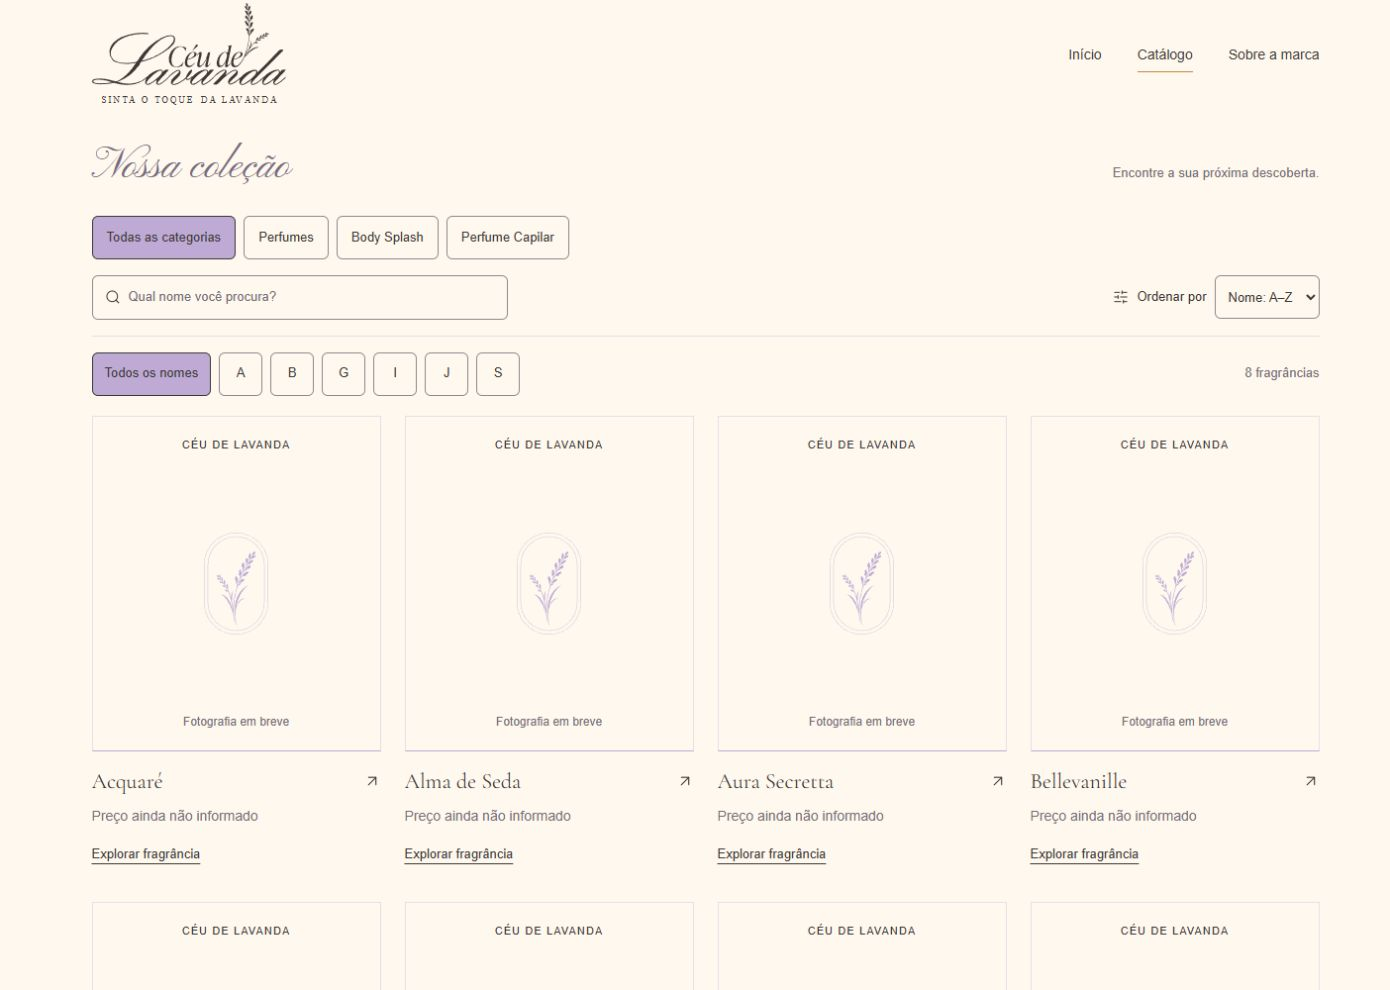
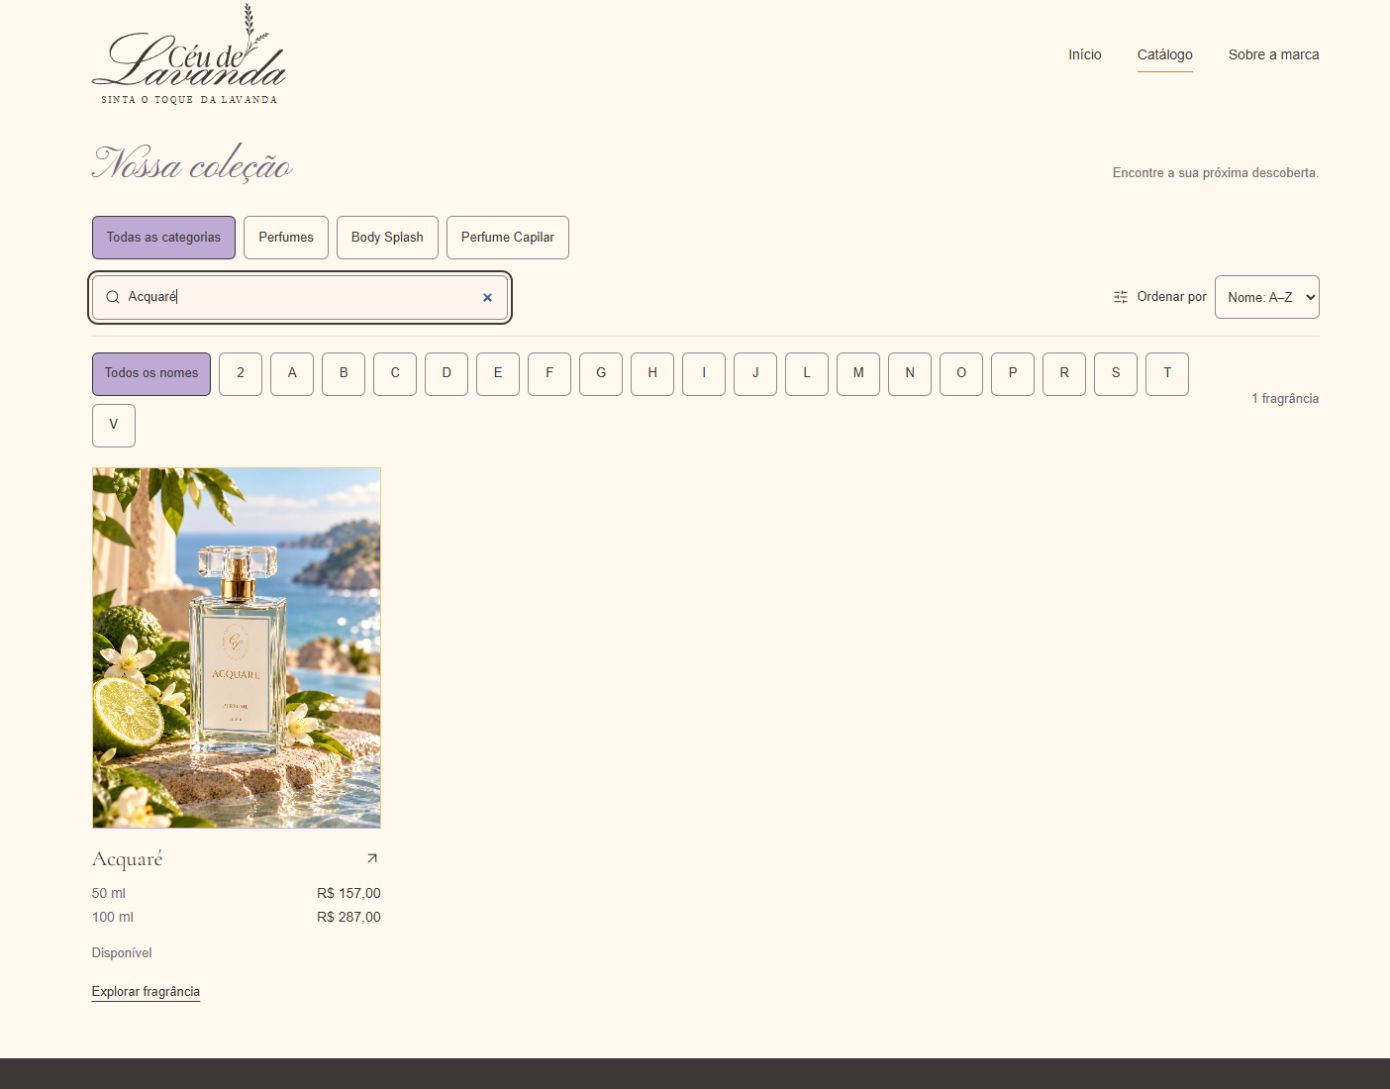
fix(portfolio): update catalogue screenshots with perfume photos (#19)

diff --git a/src/features/projects/data/projectStories.ts b/src/features/projects/data/projectStories.ts
@@ -36,32 +36,35 @@ export const PROJECT_STORIES: Record<string, ProjectStory> = {
     screenshots: [
       {
         src: '/images/projects/ceu-de-lavanda.jpg',
-        width: 1905,
-        height: 944,
+        width: 1390,
+        height: 1089,
         caption: {
-          'pt-BR': 'Página inicial do catálogo Céu de Lavanda publicado.',
-          'en-GB': 'Homepage of the published Céu de Lavanda catalogue.',
+          'pt-BR':
+            'Seleção da página inicial com fotos e preços de quatro perfumes, na versão do PR #1 executada localmente.',
+          'en-GB':
+            'Homepage selection with photos and prices for four perfumes, from PR #1 running locally.',
         },
       },
       {
         src: '/images/projects/ceu-de-lavanda-collection.jpg',
         width: 1390,
-        height: 990,
+        height: 1089,
         caption: {
-          'pt-BR': 'Coleção publicada com categorias, busca, ordenação e filtros por inicial.',
+          'pt-BR':
+            'Busca por Acquaré com fotografia, disponibilidade e preços por volume, na prévia local do PR #1.',
           'en-GB':
-            'Published collection with categories, search, sorting and initial-letter filters.',
+            'Search for Acquaré with its photo, availability and volume pricing, in the local preview of PR #1.',
         },
       },
       {
         src: '/images/projects/ceu-de-lavanda-product.jpg',
         width: 1390,
-        height: 990,
+        height: 1089,
         caption: {
           'pt-BR':
-            'Página da fragrância Acquaré, com informações comerciais ainda pendentes sinalizadas.',
+            'Detalhe do Acquaré com fotografia, descrição, preços de 50 e 100 ml e pirâmide olfativa, na prévia local do PR #1.',
           'en-GB':
-            'Acquaré fragrance page, with pending commercial information clearly identified.',
+            'Acquaré detail with its photo, description, 50 and 100 ml pricing and fragrance pyramid, in the local preview of PR #1.',
         },
       },
     ],
@@ -69,6 +72,10 @@ export const PROJECT_STORIES: Record<string, ProjectStory> = {
       {
         url: 'https://ceu-de-lavanda.pages.dev/',
         label: { 'pt-BR': 'Abrir catálogo', 'en-GB': 'Open catalogue' },
+      },
+      {
+        url: 'https://github.com/PxS00/ceu-de-lavanda-catalog/pull/1',
+        label: { 'pt-BR': 'Atualização em revisão', 'en-GB': 'Update under review' },
       },
     ],
     copy: {
@@ -102,7 +109,7 @@ export const PROJECT_STORIES: Record<string, ProjectStory> = {
           },
         ],
         outcome:
-          'Catálogo publicado no Cloudflare Pages. O cadastro da coleção continua em andamento; o site apresenta os produtos e não realiza finalização de compras online.',
+          'Catálogo publicado no Cloudflare Pages, com ampliação em revisão no PR #1 para 112 perfumes, 20 fotografias e preços por volume. As capturas mostram essa versão executada localmente. O cadastro da coleção continua em andamento; o site apresenta os produtos e não realiza finalização de compras online.',
         walkthrough: [
           'Abrir o catálogo e explorar as categorias de fragrâncias.',
           'Pesquisar um nome ou filtrar a coleção pela inicial.',
@@ -139,7 +146,7 @@ export const PROJECT_STORIES: Record<string, ProjectStory> = {
           },
         ],
         outcome:
-          'Published on Cloudflare Pages. Collection data entry is ongoing; the site presents products and does not provide online checkout.',
+          'Published on Cloudflare Pages, with an expansion to 112 perfumes, 20 photographs and volume pricing under review in PR #1. Screenshots show that version running locally. Collection data entry is ongoing; the site presents products and does not provide online checkout.',
         walkthrough: [
           'Open the catalogue and explore the fragrance categories.',
           'Search for a name or filter the collection by initial letter.',

diff --git a/docs/portfolio-review.md b/docs/portfolio-review.md
@@ -35,6 +35,13 @@ The responsive review used emulated viewport widths, not physical mobile devices
 - Added questionnaire, result, history and dashboard captures (six EnergiAI images total). Captions identify local execution and fictional inputs. The case study now explains the deactivated public database and links to the public introduction, with local instructions for the full demonstration.
 - These are actual application/model outputs for fictional examples, not evidence of real customer savings or model performance on real-world data.
 
+## Catalogue screenshot hotfix — 2026-10-23
+
+- Replaced all three catalogue screenshots with captures from the open source PR [ceu-de-lavanda-catalog#1](https://github.com/PxS00/ceu-de-lavanda-catalog/pull/1), branch `feat/catalog-product-photos` at `ecd38afa9e50cb70abe36ac7c092ffa4b703f0a5`.
+- Built the unchanged source with Next.js and served the static export locally at `127.0.0.1:5182`. Captures show the homepage selection with four photographed perfumes, search for Acquaré and the product detail with photo, prices and fragrance information.
+- The source PR contains 112 perfume entries and 20 photographs. Remaining placeholders are part of that source version. Bilingual captions and the delivery status identify this as a local preview of an open PR; the public catalogue link remains accompanied by a separate link to the update under review.
+- No source code or merge state was changed in the catalogue repository. This hotfix changes only portfolio image files, their intrinsic dimensions, captions, source link and status copy.
+
 ## Publication follow-up
 
 Production deployment, platform routing, externally cached link previews, real-device testing and Google Search Console indexation still need to be checked after release. Follow `search-console-checklist.md`. Local build checks do not prove that Google has indexed a page.
